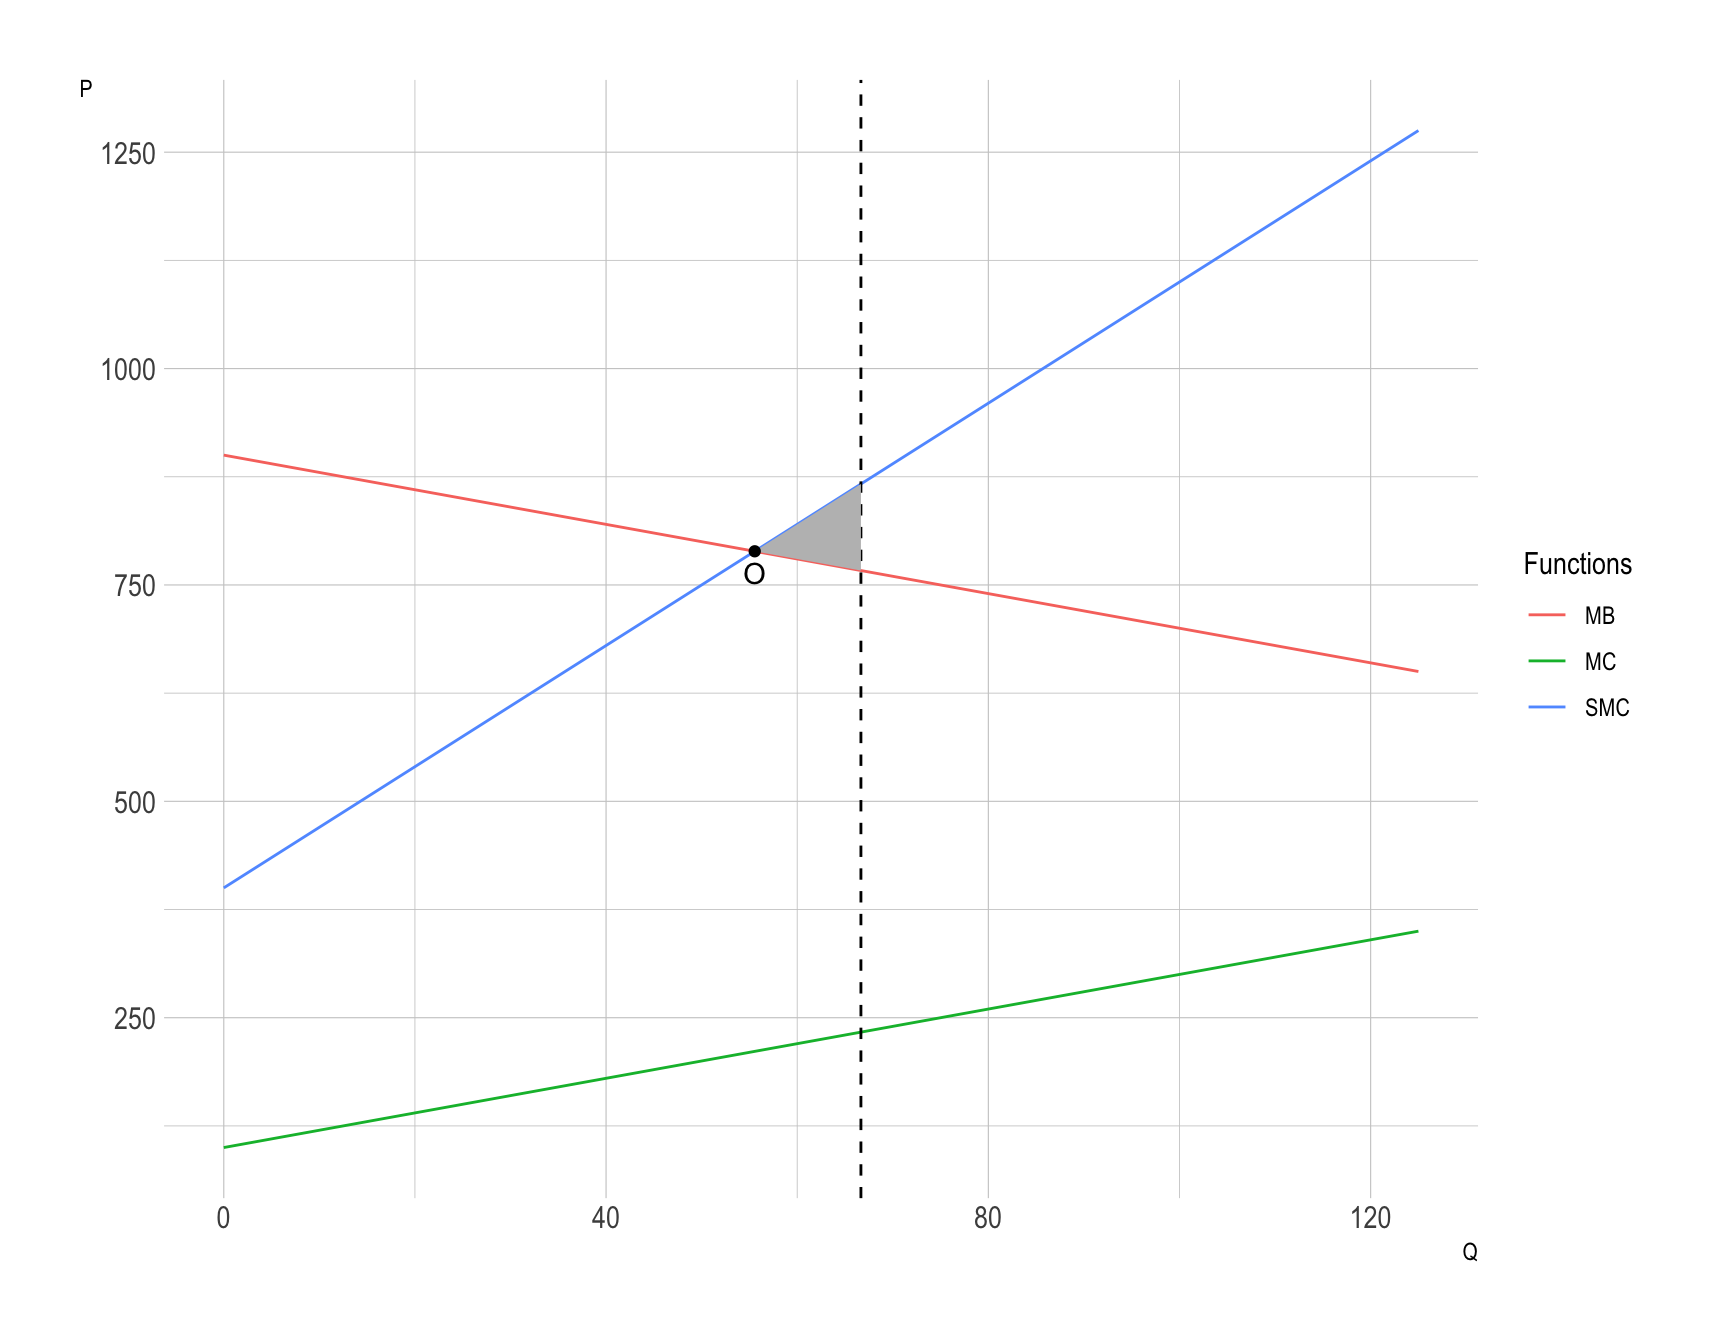
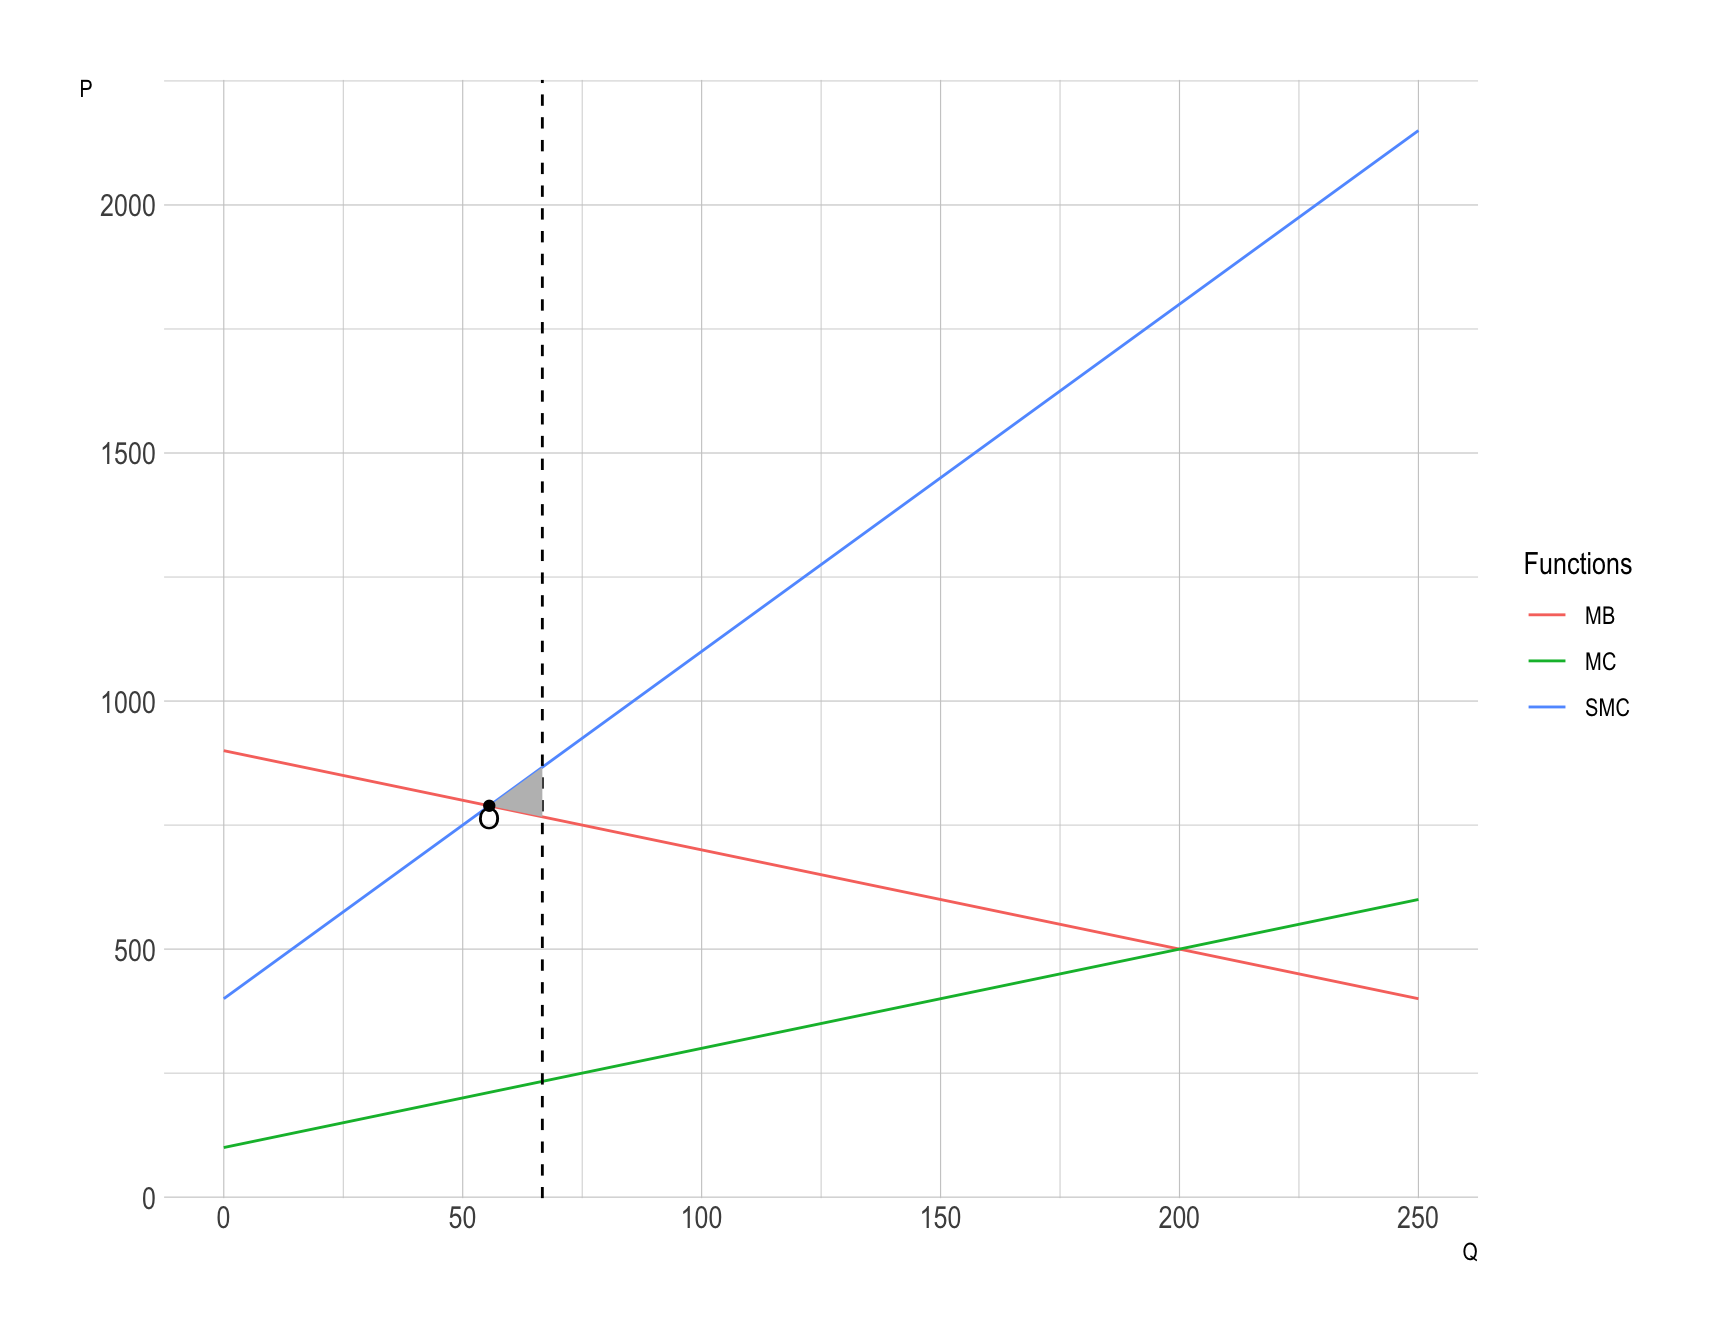
lec26

diff --git a/econ-cw/econ-341-cw-05.html b/econ-cw/econ-341-cw-05.html
@@ -235,7 +235,7 @@ ul.task-list li input[type="checkbox"] {
 <p>Setting <span class="math inline">\(MB = MC + MD\)</span> gives</p>
 <p><span class="math display">\[
 1000 - 2Q = (100 + 2Q) + (300 + 5Q)
-\]</span> Therefore, <span class="math inline">\(Q^{gov} = \frac{200}{3} = 66 + \frac{2}{3}\)</span>.</p>
+\]</span> Therefore, <span class="math inline">\(Q^{gov-q} = \frac{200}{3} = 66 + \frac{2}{3}\)</span>.</p>
 <p>The tax that will result in the socially optimal level of pollution is set so that <span class="math inline">\(t^{*} = MD(Q^{*}) = 300 + 5Q^{*} = \frac{1900}{3} = 633 + \frac{1}{3}\)</span>.</p>
 <p><br><br></p>
 </section>
@@ -246,7 +246,7 @@ ul.task-list li input[type="checkbox"] {
 <p>Setting <span class="math inline">\(MB = MC + MD\)</span> gives</p>
 <p><span class="math display">\[
 900 - 2Q = (100 + 2Q) + (300 + 5Q)
-\]</span> Therefore, <span class="math inline">\(Q^{o} = \frac{500}{9} = 55 + \frac{5}{9}\)</span>, which is less than <span class="math inline">\(Q^{gov}\)</span>.</p>
+\]</span> Therefore, <span class="math inline">\(Q^{o} = \frac{500}{9} = 55 + \frac{5}{9}\)</span>, which is less than <span class="math inline">\(Q^{gov-q}\)</span>.</p>
 <div class="cell">
 <div class="cell-output-display">
 <p><img src="econ-341-cw-05_files/figure-html/unnamed-chunk-2-1.png" class="img-fluid" width="864"></p>
@@ -256,7 +256,7 @@ ul.task-list li input[type="checkbox"] {
 <p>The DWL is: <span class="math display">\[
 \begin{align}
 DWL_{q} &amp;= \frac{1}{2}\times (1000 - 900) \times \left(\frac{200}{3} - \frac{500}{9}\right)\\
-&amp;= \frac{5000}{9}
+&amp;= \frac{5000}{9} = \frac{2^{3}\times5^{4}}{3^{2}}
 \end{align}
 \]</span></p>
 <p><br><br></p>
@@ -269,7 +269,7 @@ DWL_{q} &amp;= \frac{1}{2}\times (1000 - 900) \times \left(\frac{200}{3} - \frac
 <p><span class="math display">\[
 900 - 2Q = 100 + 2Q + \frac{1900}{3}.
 \]</span></p>
-<p>Therefore, <span class="math inline">\(Q^{gov-t} = \frac{125}{3} = 41 + \frac{2}{3}\)</span>, which is less than <span class="math inline">\(Q^{o}\)</span>.</p>
+<p>Therefore, <span class="math inline">\(Q^{gov-p} = \frac{125}{3} = 41 + \frac{2}{3}\)</span>, which is less than <span class="math inline">\(Q^{o}\)</span>.</p>
 <div class="cell">
 <div class="cell-output-display">
 <p><img src="econ-341-cw-05_files/figure-html/unnamed-chunk-3-1.png" class="img-fluid" width="864"></p>
@@ -281,7 +281,16 @@ DWL_{p} &amp;= \frac{1}{2}\times \left(900 - 2\frac{125}{3} - \left(400 + 7\frac
 &amp;= \frac{1}{2}\times 125 \times \frac{125}{9}\\
 &amp;= \frac{5^6}{2\times3^{2}}
 \end{align}
-\]</span> <br><br></p>
+\]</span></p>
+<p>Below is to compare which deadweight loss is bigger: <span class="math display">\[
+\begin{align}
+DWL_{p} - DWL_{q} &amp;= \frac{5^6}{2\times3^{2}} - \frac{2^{3}\times5^{4}}{3^{2}}\\
+&amp;= \frac{5^{4}}{3^{2}}\left(\frac{5^{2}}{2} - 2^{3} \right)\\
+&amp;= \frac{5^{4}}{3^{2}}\left(12.5 - 8 \right)\\
+&amp;&gt; 0
+\end{align}
+\]</span> Therefore, the DWL is higher for the tax than cap-and-trade.</p>
+<p><br><br></p>
 </section>
 <section id="q1d." class="level2">
 <h2 class="anchored" data-anchor-id="q1d.">Q1d.</h2>

diff --git a/listing-econ-341-cw.html b/listing-econ-341-cw.html
@@ -312,7 +312,7 @@ Date
 <span class="listing-date">October 7, 2024</span>
 </td>
 </tr>
-<tr data-index="4" data-listing-date-sort="1730869200000" data-listing-file-modified-sort="1731050602434" data-listing-date-modified-sort="1731050602000" data-listing-reading-time-sort="9" data-listing-title-sort="Price vs. Quantity under Uncertainty" data-listing-filename-sort="econ-341-cw-05.qmd">
+<tr data-index="4" data-listing-date-sort="1730869200000" data-listing-file-modified-sort="1731051033501" data-listing-date-modified-sort="1731051033000" data-listing-reading-time-sort="9" data-listing-title-sort="Price vs. Quantity under Uncertainty" data-listing-filename-sort="econ-341-cw-05.qmd">
 <td>
 <a href="./econ-cw/econ-341-cw-05.html" class="title listing-title">Price vs.&nbsp;Quantity under Uncertainty</a>
 </td>

diff --git a/index.html b/index.html
@@ -589,7 +589,7 @@ Date
 </tr>
 </thead>
 <tbody class="list">
-<tr data-index="0" data-listing-date-sort="1730869200000" data-listing-file-modified-sort="1731050602434" data-listing-date-modified-sort="1731050602000" data-listing-reading-time-sort="9" data-listing-title-sort="Price vs. Quantity under Uncertainty" data-listing-filename-sort="econ-341-cw-05.qmd">
+<tr data-index="0" data-listing-date-sort="1730869200000" data-listing-file-modified-sort="1731051033501" data-listing-date-modified-sort="1731051033000" data-listing-reading-time-sort="9" data-listing-title-sort="Price vs. Quantity under Uncertainty" data-listing-filename-sort="econ-341-cw-05.qmd">
 <td>
 <a href="./econ-cw/econ-341-cw-05.html" class="title listing-title">Price vs.&nbsp;Quantity under Uncertainty</a>
 </td>
